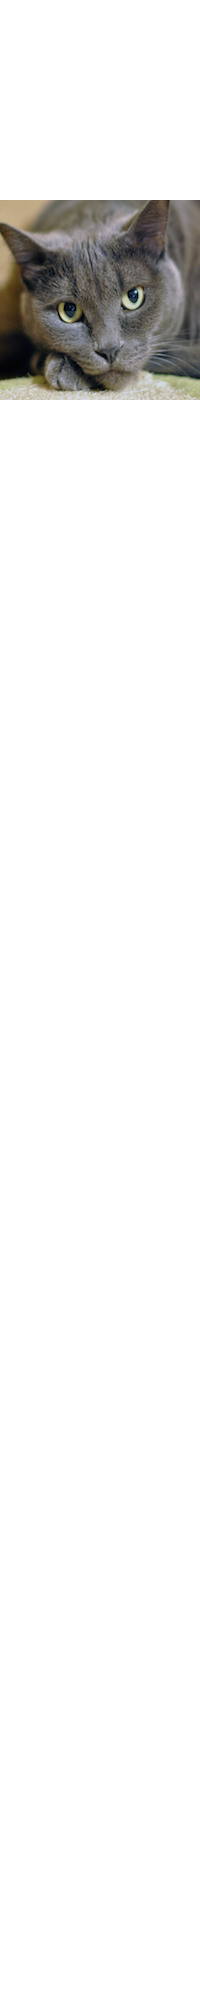
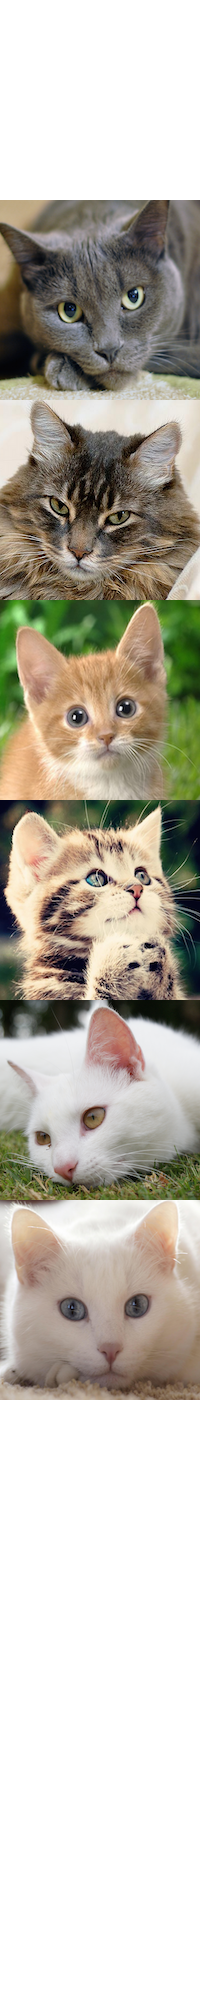
Add more cat sprites

diff --git a/js/game.js b/js/game.js
@@ -141,7 +141,7 @@ BasicGame.Game.prototype = {
       cat.busy = false;
       cat.name = props.name;
       cat.likes = props.likes;
-      cat.dislikes= props.dislikes;
+      cat.dislikes = props.dislikes;
       cat.frameStart = props.color*2;
       cat.frame = cat.frameStart;
       cat.moveTimer = this.time.now + 500;

diff --git a/js/data.js b/js/data.js
@@ -37,7 +37,7 @@ BasicGame.Data = {
     this.nameCount =  this.nameCount == this.names.length-1 ? 0 : this.nameCount+1;
     return name;
   },
-  colors: 1,
+  colors: 6,
   getLikes: function(others) {
     var likes;
     var like;
